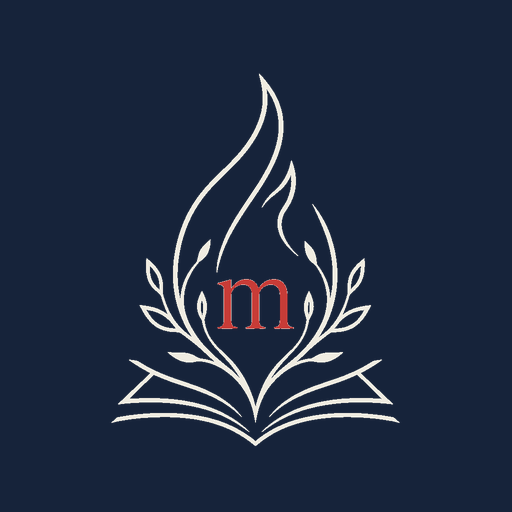
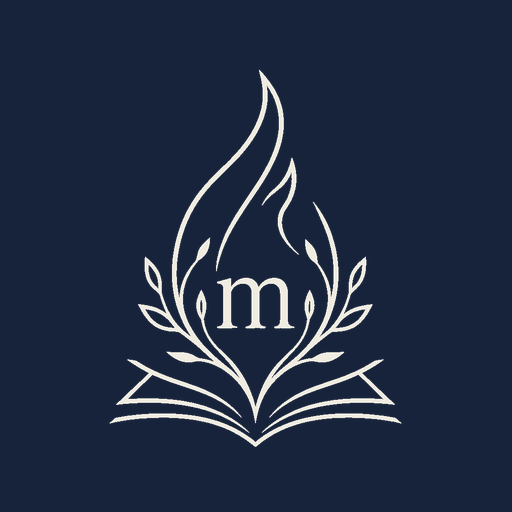
Add files via upload

diff --git a/index.html b/index.html
@@ -282,6 +282,8 @@ input[type=range]::-moz-range-thumb {
 .rate.r-hesite { border: 1.5px solid var(--noir-2); color: var(--noir-2); }
 .rate.r-su { border: 1.5px solid var(--bleu); color: var(--bleu); }
 
+.resume-btn { width: 100%; margin-top: 0.7rem; }
+.hidden { display: none !important; }
 .session-actions { display: flex; justify-content: space-between; margin-top: 1.1rem; }
 
 /* ===== Cartes (navigateur) ===== */
@@ -548,9 +550,11 @@ input[type=range]::-moz-range-thumb {
   </div>
 
   <div class="session-actions">
-    <button class="btn btn-outline btn-sm" onclick="editCurrentCard()">Modifier la carte</button>
+    <button class="btn btn-outline btn-sm" onclick="prevCard()">&#9664; Précédente</button>
+    <button class="btn btn-outline btn-sm" onclick="editCurrentCard()">Modifier</button>
     <button class="btn btn-primary btn-sm" onclick="endSession()">Terminer</button>
   </div>
+  <button class="btn btn-primary resume-btn hidden" id="resume-btn" onclick="resumeSession()">Reprendre la session</button>
 </div>
 
 <!-- ============ VUE CARTES ============ -->
@@ -831,11 +835,14 @@ let sessionCount = 0;
 let currentCard = null;
 let recentIds = [];
 let flipped = false;
+let sessionHistory = [];   // cartes déjà notées cette session
+let reviewIndex = null;    // null = session normale ; sinon index de relecture
 
 function startSession() {
   const pool = selectedPool();
   if (pool.length === 0) { toast('Aucune carte dans la sélection.'); return; }
   sessionCount = 0; recentIds = []; currentCard = null;
+  sessionHistory = []; reviewIndex = null;
   showView('session');
   nextCard();
 }
@@ -853,7 +860,8 @@ function nextCard() {
   let card = null;
   if (settings.mode === 'dosage' && Math.random() * 100 < settings.dosage) {
     const due = duePool(basePool);
-    if (due.length > 0) card = due[0];
+    // Tirage aléatoire parmi les dues : à urgence égale, aucun ordre de fichier ne doit transparaître
+    if (due.length > 0) card = due[Math.floor(Math.random() * due.length)];
   }
   if (!card) card = basePool[Math.floor(Math.random() * basePool.length)];
 
@@ -873,6 +881,9 @@ function renderCard() {
   document.getElementById('fc-front').textContent = currentCard.front;
   document.getElementById('fc-back').textContent = currentCard.back;
   document.getElementById('rating-bar').classList.remove('show');
+  const relecture = reviewIndex !== null;
+  document.getElementById('rating-bar').style.visibility = relecture ? 'hidden' : '';
+  document.getElementById('resume-btn').classList.toggle('hidden', !relecture);
   document.getElementById('session-count').textContent = sessionCount;
   document.getElementById('session-today').textContent = todayCount();
   const due = duePool(selectedPool()).length;
@@ -887,7 +898,9 @@ function flipCard() {
 }
 
 function rateCard(grade) {
+  if (reviewIndex !== null) return;   // en relecture, pas de notation
   if (!flipped || !currentCard) return;
+  sessionHistory.push(currentCard.id);
   const cards = getCards();
   const idx = cards.findIndex(c => c.id === currentCard.id);
   if (idx !== -1) {
@@ -926,6 +939,38 @@ function rateCard(grade) {
 
   sessionCount++;
   nextCard();
+}
+
+function prevCard() {
+  if (sessionHistory.length === 0) { toast('Aucune carte précédente dans cette session.'); return; }
+  if (reviewIndex === null) reviewIndex = sessionHistory.length - 1;
+  else if (reviewIndex > 0) reviewIndex--;
+  else { toast('Début de la session atteint.'); return; }
+  const card = getCards().find(c => c.id === sessionHistory[reviewIndex]);
+  if (!card) { toast('Carte supprimée entre-temps.'); return; }
+  currentRelecture = card;
+  showCard(card);
+}
+
+let currentRelecture = null;
+function resumeSession() {
+  reviewIndex = null; currentRelecture = null;
+  renderCard();   // réaffiche la carte en attente de notation
+}
+
+// Affiche une carte donnée (relecture) sans toucher au tirage en cours
+function showCard(card) {
+  flipped = false;
+  const fc = document.getElementById('flashcard');
+  fc.classList.remove('flipped');
+  const label = TAXONOMY[card.module].label + ' · ' + card.deck;
+  document.getElementById('fc-tag-front').textContent = label;
+  document.getElementById('fc-tag-back').textContent = card.module === 'textes' ? 'Contenu' : 'Portée';
+  document.getElementById('fc-front').textContent = card.front;
+  document.getElementById('fc-back').textContent = card.back;
+  document.getElementById('rating-bar').classList.remove('show');
+  document.getElementById('rating-bar').style.visibility = 'hidden';
+  document.getElementById('resume-btn').classList.remove('hidden');
 }
 
 function endSession() {
@@ -1073,10 +1118,12 @@ function autoRoute(rawDeck, front) {
   const f = (front || '').toLowerCase();
   if (d.includes('cedh') || d.includes('conv. edh') || d.includes('convention europ')) return ['textes', 'CEDH'];
   if (d.includes('ddhc') || d.includes('déclaration') || d.includes('declaration')) return ['textes', 'DDHC'];
+  if (d.includes('compétence territoriale') || d.includes('competence territoriale')) return ['textes', 'CJA'];
   if (d.includes('cja') || d.includes('code de justice')) return ['textes', 'CJA'];
   if (d.includes('gaja')) return ['jurisprudence', 'GAJA'];
-  if (d.includes('contentieux')) return ['jurisprudence', 'Contentieux administratif'];
-  if (d.includes('constitution') || d.includes('texte') || d.includes('article') || d.includes('compétence territoriale') || d.includes('competence territoriale')) return ['textes', 'Autres'];
+  if (d.includes('gaca') || d.includes('contentieux')) return ['jurisprudence', 'Contentieux administratif'];
+  if (d.includes('conseil constitutionnel')) return ['jurisprudence', 'Autres'];
+  if (d.includes('constitution') || d.includes('texte') || d.includes('article')) return ['textes', 'Autres'];
   if (d.includes('juris') || d.includes('arrêt') || d.includes('arret')) return ['jurisprudence', 'Autres'];
   // Repli : un recto qui ressemble à une décision (CE, CC, TC, Cass., CEDH…) part en jurisprudence
   if (/^\s*(ce|cc|tc|caa|ta|cass|cjue|cjce|cedh)[\s.,]/i.test(f)) return ['jurisprudence', 'Autres'];
@@ -1102,7 +1149,18 @@ function importAnki() {
 
   const reader = new FileReader();
   reader.onload = e => {
-    const lines = e.target.result.split(/\r?\n/).filter(l => l.trim() && !l.startsWith('#'));
+    const txt = e.target.result;
+    // Fichier binaire (paquet .apkg, zip...) : signature PK, octets nuls ou caractères illisibles
+    const sample = txt.slice(0, 4000);
+    let illisibles = 0;
+    for (const ch of sample) if (ch === '\uFFFD' || ch === '\u0000') illisibles++;
+    if (txt.startsWith('PK') || illisibles > 10) {
+      toast('Ce fichier est un paquet Anki (.apkg), pas un export texte. Dans Anki : Exporter \u2192 \u00ab Notes en texte brut (.txt) \u00bb.');
+      input.value = '';
+      document.getElementById('anki-file-name').textContent = 'Aucun fichier';
+      return;
+    }
+    const lines = txt.split(/\r?\n/).filter(l => l.trim() && !l.startsWith('#'));
     const cards = getCards();
     const existing = new Set(cards.map(c => (c.front + '\u241F' + c.back).toLowerCase()));
     let added = 0, skipped = 0;